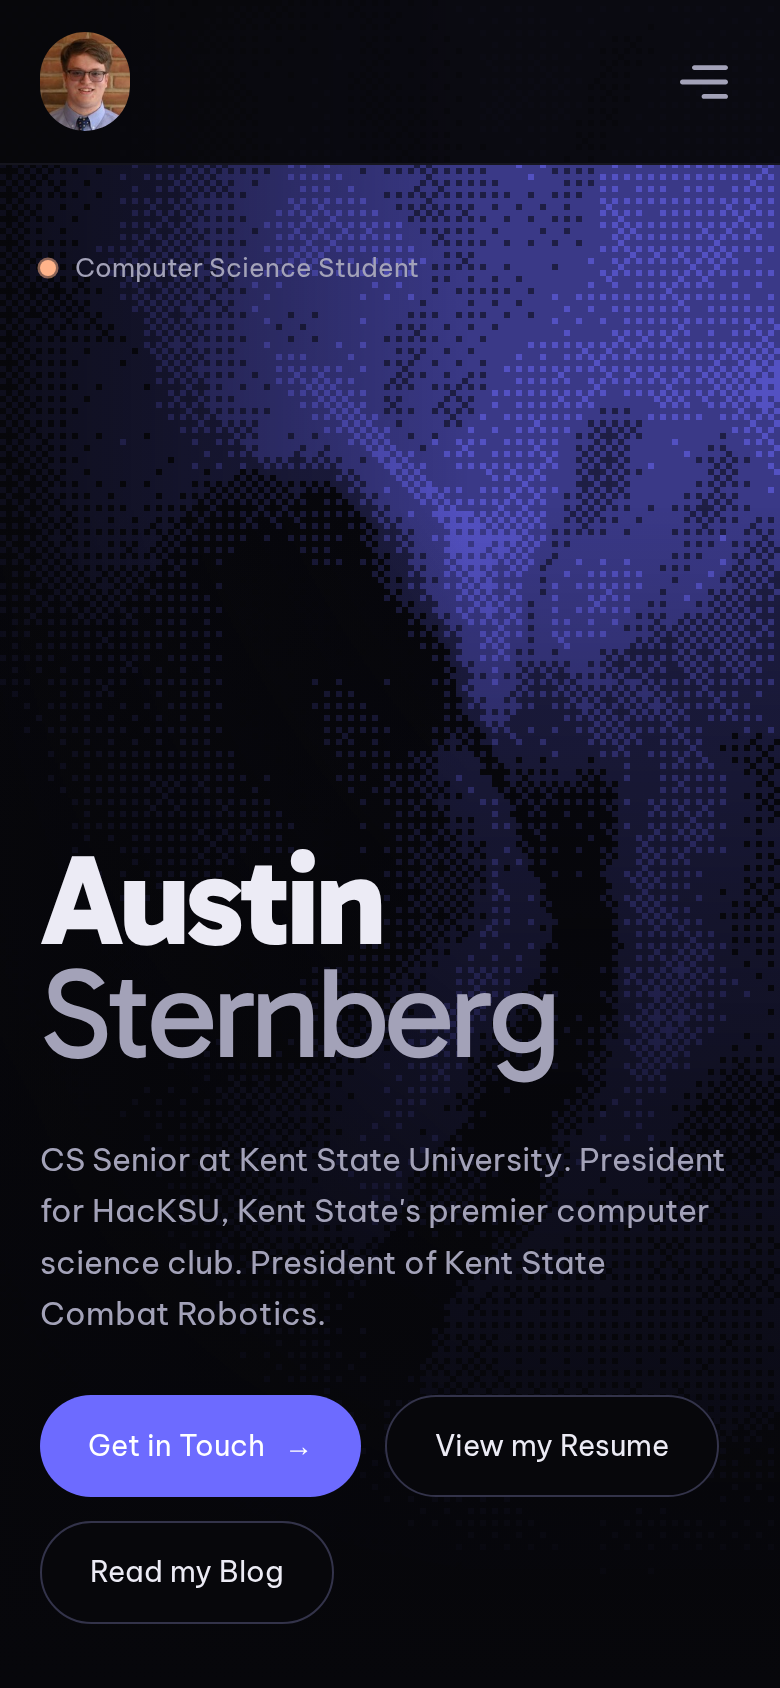
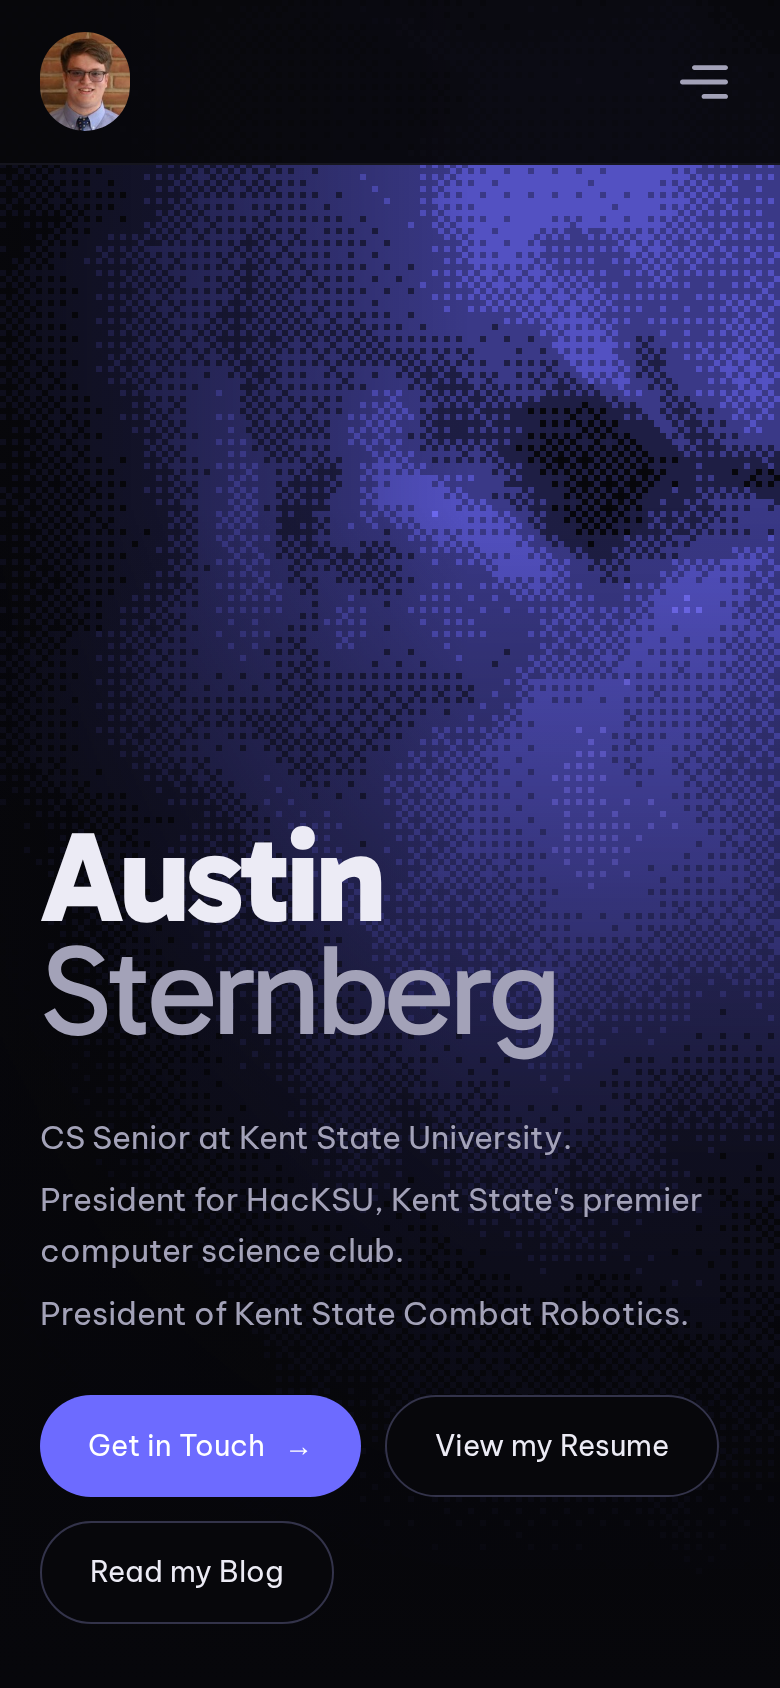
style: simplify hero intro and document hacker mode

diff --git a/src/lib/components/Hero.svelte b/src/lib/components/Hero.svelte
@@ -5,8 +5,9 @@
   import ContactForm from "./ContactForm.svelte";
   let contactOpen = $state(false);
 
-  let { name, specialty, summary, resume, blog, hackerHero }: HeroProps & { hackerHero: HackerHeroProps } = $props();
+  let { name, summary, resume, blog, hackerHero }: HeroProps & { hackerHero: HackerHeroProps } = $props();
 
+  const summaryLines = $derived((hacker.on ? hackerHero.summary : summary).split(/(?<=[.!?])\s+/));
   const displayName = $derived(hacker.on ? HACKER_ALIAS : name);
   // Each word on its own line, each letter its own span so it can stagger in and react to the cursor.
   const words = $derived(displayName.split(" "));
@@ -55,13 +56,6 @@
   <div class="scrim" aria-hidden="true"></div>
 
   <div class="shell hero-inner">
-    <div class="hero-top">
-      <p class="eyebrow hero-eyebrow">
-        <span class="pulse" aria-hidden="true"></span>
-        {hacker.on ? hackerHero.specialty : specialty}
-      </p>
-    </div>
-
     {#key displayName}
       <h1 id="hero-name" class="display hero-name glitch" data-text={displayName} aria-label={displayName} bind:this={nameEl}>
         {#each words as word, w}
@@ -76,7 +70,9 @@
 
     <div class="hero-bottom">
       <div class="hero-copy">
-        <p class="hero-summary">{hacker.on ? hackerHero.summary : summary}</p>
+        <div class="hero-summary">
+          {#each summaryLines as line}<p>{line}</p>{/each}
+        </div>
         {#if hacker.on}
           <div class="wins">
             <p class="text-faint">$ cat wins.txt</p>
@@ -126,33 +122,10 @@
     position: relative;
     z-index: 3;
     display: grid;
-    grid-template-rows: auto 1fr auto;
+    grid-template-rows: 1fr auto;
     gap: 2rem;
     padding-block: 7.5rem 2rem;
   }
-  .hero-eyebrow {
-    display: inline-flex;
-    align-items: center;
-    gap: 0.6rem;
-    color: var(--color-dim);
-  }
-  .pulse {
-    width: 0.5rem;
-    height: 0.5rem;
-    border-radius: 50%;
-    background: var(--color-ember);
-    box-shadow: 0 0 0 0 rgb(var(--rgb-ember) / 0.6);
-    animation: pulse 2.4s ease-out infinite;
-  }
-  @keyframes pulse {
-    70% {
-      box-shadow: 0 0 0 10px rgb(var(--rgb-ember) / 0);
-    }
-    100% {
-      box-shadow: 0 0 0 0 rgb(var(--rgb-ember) / 0);
-    }
-  }
-
   .hero-name {
     align-self: end;
     display: flex;
@@ -217,11 +190,12 @@
     }
   }
   .hero-summary {
-    max-width: 38ch;
+    max-width: none;
     color: var(--color-dim);
     font-size: clamp(1rem, 1.6vw, 1.2rem);
     line-height: 1.6;
   }
+  .hero-summary p + p { margin-top: 0.35rem; }
   .wins {
     margin-top: 1.25rem;
     font-size: 0.875rem;
@@ -243,8 +217,7 @@
   }
   @media (prefers-reduced-motion: reduce) {
     .hero-name,
-    .ch,
-    .pulse {
+    .ch {
       animation: none;
     }
   }
